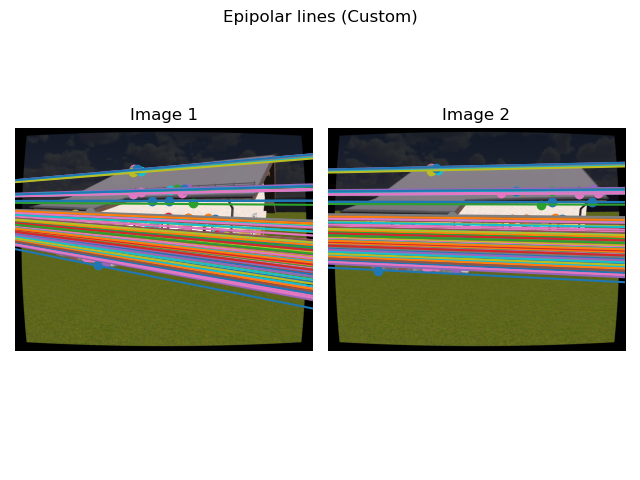
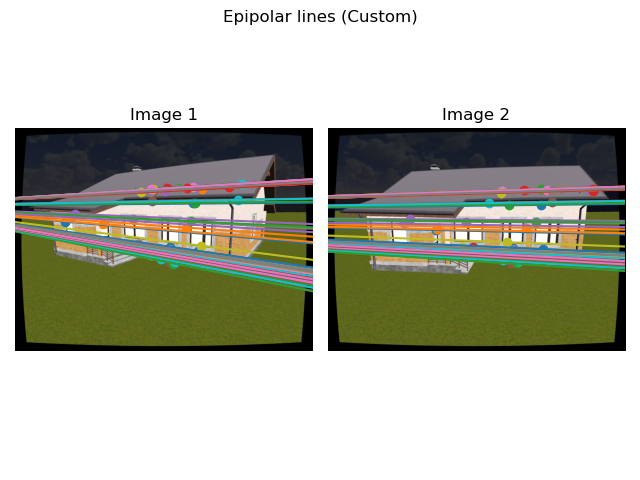
Adding a limit to the matches

Changed region(s): [[0.0, 0.3125, 1.0, 0.6562]]

diff --git a/features_detection.py b/features_detection.py
@@ -25,6 +25,8 @@ def match_images(images, sift):
             good_matches.append(m)
     # sort them by distance
     good_matches = sorted(good_matches, key=lambda x: x.distance)
+    # Keep the best 100 matches
+    good_matches = good_matches[:100]
 
     # Get keypoints coordinates
     pts0 = np.array([keypoints[0][m.queryIdx].pt for m in good_matches])
